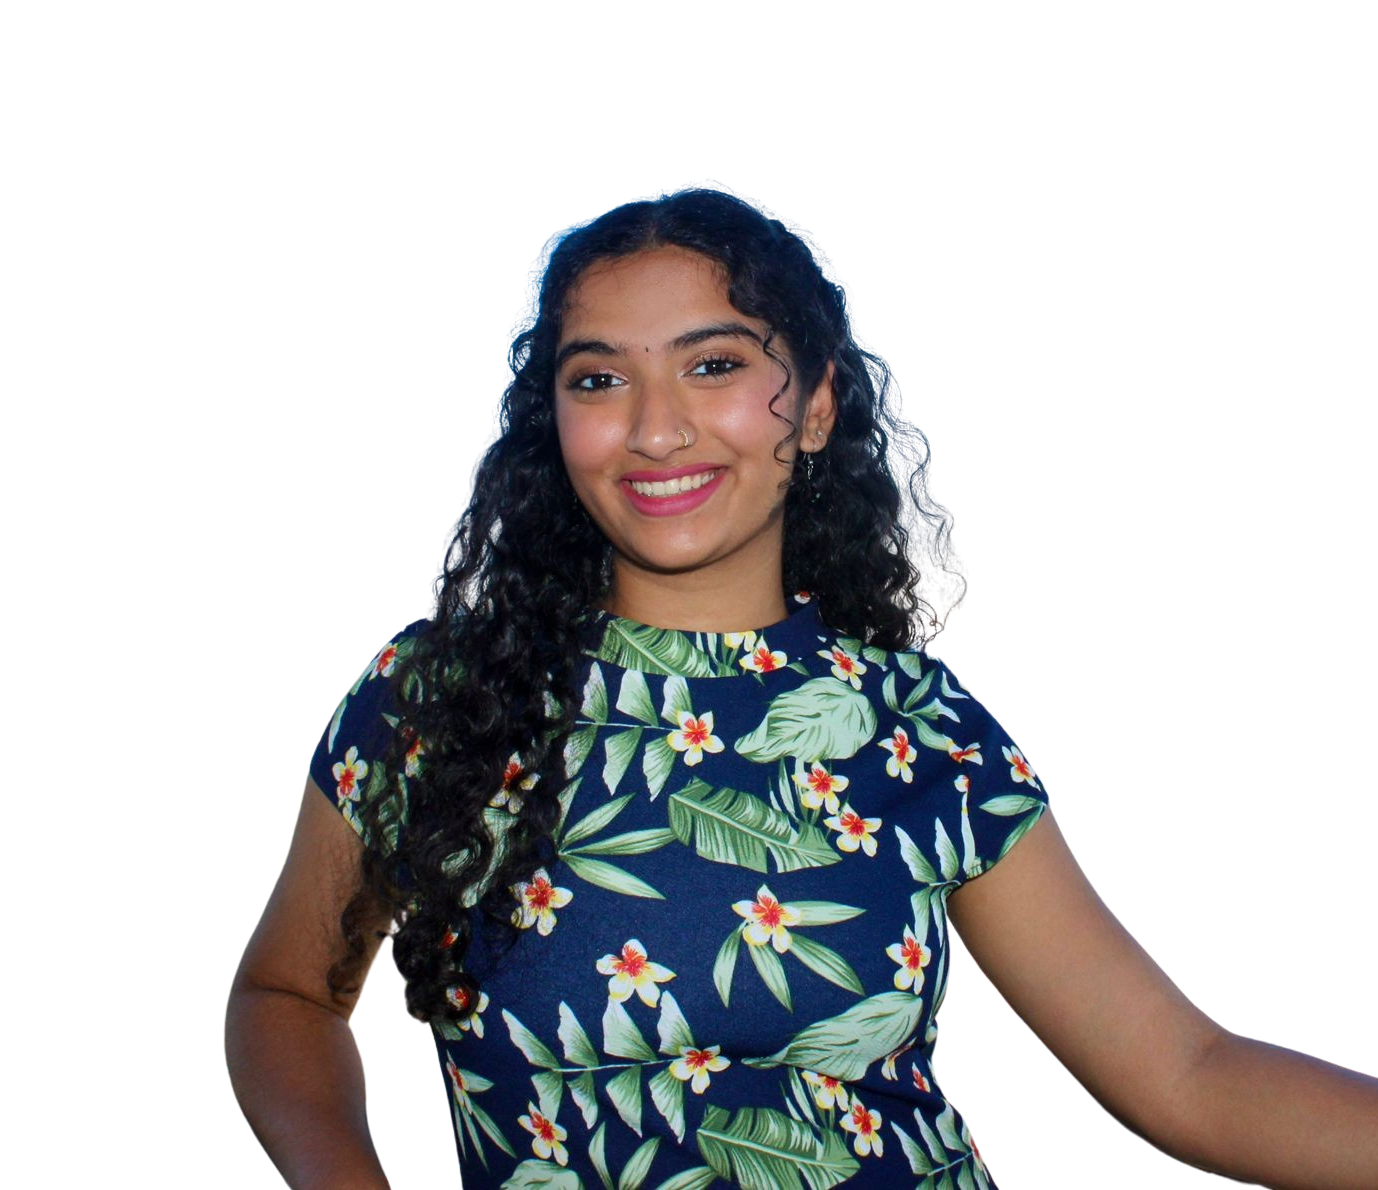
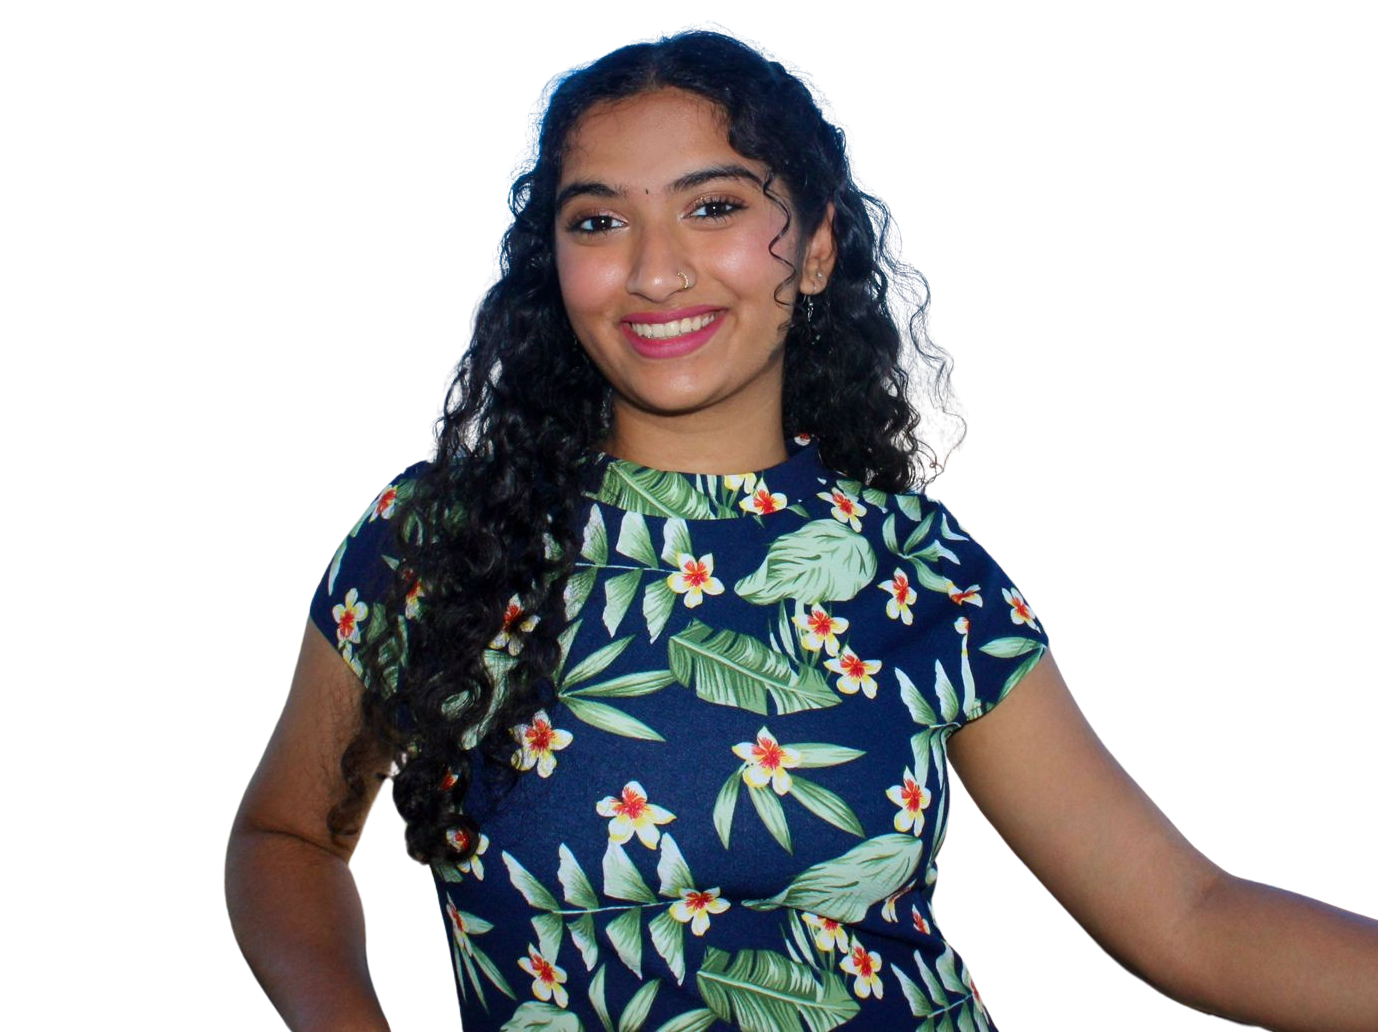
changed some photo aspect ratio

diff --git a/lib/links.ts b/lib/links.ts
@@ -503,6 +503,11 @@ export const teamLinks: TeamLink[] = [
 				pos: "Member",
 				src: "/teams/nikhil.png",
 			},
+			{
+				name: "Fathima Hazeeb",
+				pos: "Member",
+				src: "/teams/nikhil.png",
+			},
 		],
 	},
 	{
